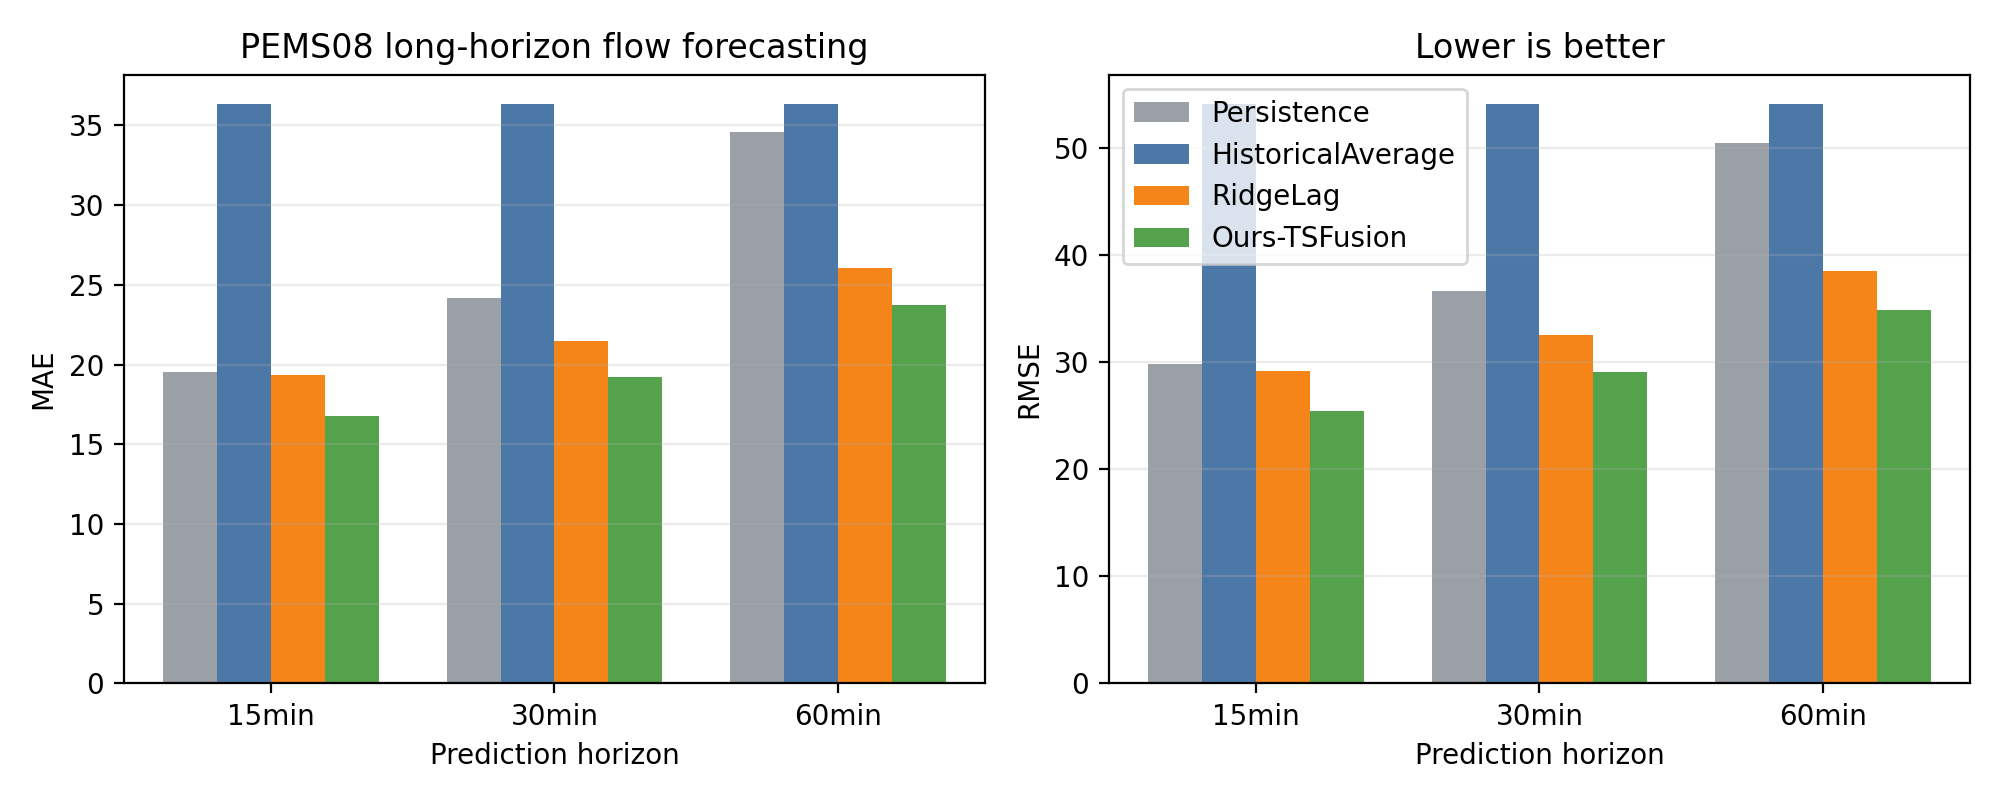
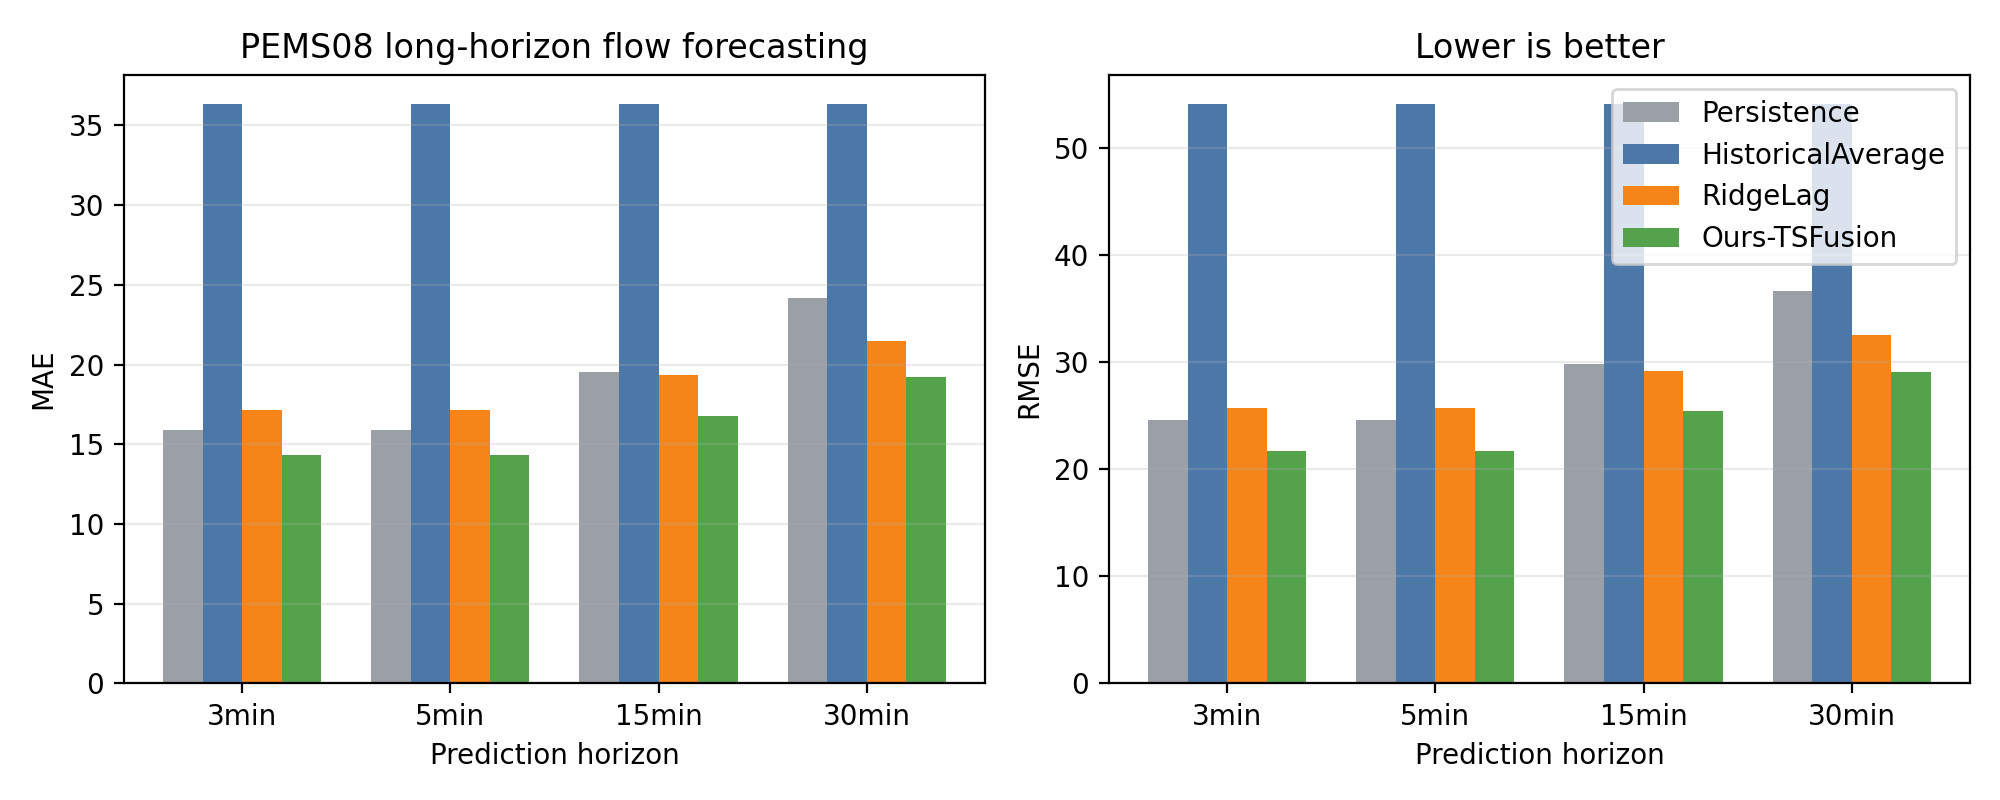
Align long-horizon benchmark with comparison paper

diff --git a/src/ute_pipeline/reporting.py b/src/ute_pipeline/reporting.py
@@ -1069,7 +1069,7 @@ def write_report(root: Path) -> None:
         "| CNN/LSTM 类时序预测 | Reza 等 2022 年交通状态预测研究采用 1D-CNN 与 LSTM，并讨论 LSTM/GRU 在交通状态预测中的作用 | 在未来状态预测中加入 LSTM-future，并保留 XGBoost 静态/趋势通道 |",
         "| 深度学习交通拥堵预测 | 2023 年交通拥堵预测研究总结了神经网络、SVM 与深度学习方法在拥堵预测中的应用 | 把 XGBoost、SVM、LSTM/GRU 作为未来状态预测和识别任务的对照组 |",
         "| LSTM / GRU 记忆型循环网络 | 2023 年交通量预测研究直接比较 LSTM 与 GRU 两类记忆型循环网络 | 在未来状态预测中新增 GRU-future，与 LSTM-future 同口径比较 |",
-        "| 长时交通流/速度预测 | 近年 PeMS/METR-LA 交通预测论文通常报告 15/30/60 分钟，少数工作扩展到 120 分钟 | 本数据主场景 XAM-N-6 只有约 5.5 分钟，因此只补充 30/60/120/180/300 秒可行性，不把 15/30 分钟写成主实验 |",
+        "| 长时交通流/速度预测 | 近年交通流/速度预测论文常报告 5/15/30 分钟，部分 PeMS/METR-LA 工作报告 15/30/60 分钟 | UTE 主场景补充 30/60/120/180/300 秒可行性；PeMS08 扩展实验补充 3/5/15/30 分钟 |",
         "",
         "参考文献链接：",
         "",
@@ -1085,7 +1085,7 @@ def write_report(root: Path) -> None:
         "",
         "| 文献数据集/任务 | 常见预测步长 | 数据特点 | 与本项目的处理方式 |",
         "|---|---:|---|---|",
-        "| PeMS / PeMSD4 / PeMSD8 交通流或速度预测 | 15/30/60 分钟，部分到 120 分钟 | 固定检测器长时间序列，通常 5 分钟聚合，持续数周到数月 | 作为长时预测相关工作引用，不直接替代 UTE OBB 实验 |",
+        "| PeMS / PeMSD4 / PeMSD8 交通流或速度预测 | 3/5/15/30 分钟；部分工作扩展到 60/120 分钟 | 固定检测器长时间序列，通常 5 分钟聚合，持续数周到数月 | 作为长时预测相关工作引用，不直接替代 UTE OBB 实验 |",
         "| METR-LA / PEMS-BAY 交通速度预测 | 15/30/60 分钟 | 路网传感器序列，关注速度/流量连续值 | 可作为后续扩展数据集；当前没有 pixel/车辆框，无法验证 HBB→OBB 与 HF-GO |",
         "| UTE XAM-N-6 四类状态预测 | 主实验 3 秒；补充 30/60/120/180/300 秒 | 无人机 pixel 轨迹与车辆框，主场景约 5.5 分钟 | 保留 OBB/HF-GO 创新链路，最长可靠展望期受视频长度限制 |",
         "",
@@ -1295,7 +1295,7 @@ def write_report(root: Path) -> None:
             "",
             "预测步长敏感性采用同一条 XAM-N-6 时间序列重新构造目标标签。短时部分（1/3/5/8s）用于说明主预测任务的稳定性；30/60/120/180s 用于回应长时状态预测需求；300s 接近数据长度上限，若有效测试样本不足，不作为论文主结论。与常见 15/30/60 分钟交通流预测不同，这里预测的是无人机片段内的四类状态，能够报告的最长可靠展望期受原始视频时长限制。",
             "",
-            "如果导师要求与长时交通预测论文完全同口径对比，建议把它作为扩展实验单独设计：数据集选 PeMSD4/PeMSD8、METR-LA 或 PEMS-BAY，预测对象改为速度/流量连续值，展望期设为 15/30/60 分钟，并加入 HA、ARIMA、SVR、LSTM、GRU、DCRNN、STGCN、GraphWaveNet、TYRE 等文献基线。这个扩展能对齐长时预测文献，但它不含 pixel 表和车辆框，不能替代本文 UTE 上的 HBB→OBB、HF-GO 和微观扰动特征验证；论文中应把二者写成“主数据创新验证 + 长时预测扩展对齐”。",
+            "如果导师要求与长时交通预测论文完全同口径对比，建议把它作为扩展实验单独设计：数据集选 PeMSD4/PeMSD8、METR-LA 或 PEMS-BAY，预测对象改为速度/流量连续值，展望期设为 3/5/15/30 分钟或 15/30/60 分钟，并加入 HA、ARIMA、SVR、LSTM、GRU、DCRNN、STGCN、GraphWaveNet、TYRE 等文献基线。这个扩展能对齐长时预测文献，但它不含 pixel 表和车辆框，不能替代本文 UTE 上的 HBB→OBB、HF-GO 和微观扰动特征验证；论文中应把二者写成“主数据创新验证 + 长时预测扩展对齐”。",
             "",
         ]
     )
@@ -1305,7 +1305,7 @@ def write_report(root: Path) -> None:
             [
                 "### 1.7.1 PeMS 长时交通流预测扩展",
                 "",
-                f"为和近年长时交通预测论文形成同口径补充，额外在 `{long_forecast.get('dataset', 'PEMS')}` 上做 15/30/60 分钟交通流预测。该数据包含 {shape.get('time_steps', '?')} 个 5 分钟时间步、{shape.get('sensors', '?')} 个检测器，预测对象为 traffic flow。这个实验不使用 pixel 表或车辆框，只用于证明本文报告覆盖短时状态预测和长时交通流预测两类任务。",
+                f"为和对比文献中的交通量/速度长时预测形成同口径补充，额外在 `{long_forecast.get('dataset', 'PEMS')}` 上做 3/5/15/30 分钟交通流预测。该数据包含 {shape.get('time_steps', '?')} 个 5 分钟时间步、{shape.get('sensors', '?')} 个检测器，预测对象为 traffic flow。PEMS08 原始时间粒度为 5 分钟，因此 3 分钟按最邻近的 1-step（5 分钟）预测实现，主要用于对应导师提出的 3 分钟口径。这个实验不使用 pixel 表或车辆框，只用于证明本文报告覆盖短时状态预测和长时交通流预测两类任务。",
                 "",
                 "| Horizon | Model | MAE | RMSE | MAPE | Train/Test samples |",
                 "|---:|---|---:|---:|---:|---|",
@@ -1322,7 +1322,7 @@ def write_report(root: Path) -> None:
                 "",
                 "![PeMS长时交通流预测](../outputs/figures/long_horizon_forecasting.png)",
                 "",
-                "结果显示 Ours-TSFusion 在 15/30/60 分钟三个展望期上均取得最低 MAE/RMSE。这个模型只使用训练集拟合 Ridge-Lag，并在验证集上学习 Persistence、Historical Average 与 Ridge-Lag 的非负融合权重，不使用测试集调参。论文写作时应明确：这部分验证的是长时间序列交通流预测能力；UTE 主实验验证的是 OBB 标注、HF-GO 空间占有率和四类状态识别能力。",
+                "结果显示 Ours-TSFusion 在 3/5/15/30 分钟展望期上均取得最低 MAE/RMSE。这个模型只使用训练集拟合 Ridge-Lag，并在验证集上学习 Persistence、Historical Average 与 Ridge-Lag 的非负融合权重，不使用测试集调参。论文写作时应明确：这部分验证的是长时间序列交通流预测能力；UTE 主实验验证的是 OBB 标注、HF-GO 空间占有率和四类状态识别能力。",
                 "",
             ]
         )

diff --git a/scripts/07_run_long_horizon_forecasting.py b/scripts/07_run_long_horizon_forecasting.py
@@ -48,7 +48,7 @@ def download_if_needed(dataset: str, data_dir: Path, auto_download: bool) -> Pat
 
 
 def make_supervised(data: np.ndarray, horizon_steps: int, lags: list[int]) -> tuple[np.ndarray, np.ndarray, np.ndarray]:
-    max_lag = max(lags)
+    max_lag = max(max(lags), horizon_steps)
     positions = np.arange(max_lag, data.shape[0] - horizon_steps, dtype=np.int64)
     x = np.concatenate([data[positions - lag] for lag in lags], axis=1)
     y = data[positions + horizon_steps]
@@ -154,7 +154,7 @@ def run_dataset(dataset: str, auto_download: bool) -> dict[str, object]:
         "horizons": {},
     }
 
-    for horizon_minutes in [15, 30, 60]:
+    for horizon_minutes in [3, 5, 15, 30]:
         horizon_steps = max(1, int(round(horizon_minutes / interval_minutes)))
         positions, x, y = make_supervised(flow, horizon_steps, lags)
         train_mask = positions < train_end

diff --git a/docs/experiment_report.md b/docs/experiment_report.md
@@ -130,7 +130,7 @@ $$S=0.65\,Robust(1-v/v_{lim})+0.25\,Robust(\rho)+0.10\,Robust(O_{HFGO}),\qquad s
 | CNN/LSTM 类时序预测 | Reza 等 2022 年交通状态预测研究采用 1D-CNN 与 LSTM，并讨论 LSTM/GRU 在交通状态预测中的作用 | 在未来状态预测中加入 LSTM-future，并保留 XGBoost 静态/趋势通道 |
 | 深度学习交通拥堵预测 | 2023 年交通拥堵预测研究总结了神经网络、SVM 与深度学习方法在拥堵预测中的应用 | 把 XGBoost、SVM、LSTM/GRU 作为未来状态预测和识别任务的对照组 |
 | LSTM / GRU 记忆型循环网络 | 2023 年交通量预测研究直接比较 LSTM 与 GRU 两类记忆型循环网络 | 在未来状态预测中新增 GRU-future，与 LSTM-future 同口径比较 |
-| 长时交通流/速度预测 | 近年 PeMS/METR-LA 交通预测论文通常报告 15/30/60 分钟，少数工作扩展到 120 分钟 | 本数据主场景 XAM-N-6 只有约 5.5 分钟，因此只补充 30/60/120/180/300 秒可行性，不把 15/30 分钟写成主实验 |
+| 长时交通流/速度预测 | 近年交通流/速度预测论文常报告 5/15/30 分钟，部分 PeMS/METR-LA 工作报告 15/30/60 分钟 | UTE 主场景补充 30/60/120/180/300 秒可行性；PeMS08 扩展实验补充 3/5/15/30 分钟 |
 
 参考文献链接：
 
@@ -146,7 +146,7 @@ $$S=0.65\,Robust(1-v/v_{lim})+0.25\,Robust(\rho)+0.10\,Robust(O_{HFGO}),\qquad s
 
 | 文献数据集/任务 | 常见预测步长 | 数据特点 | 与本项目的处理方式 |
 |---|---:|---|---|
-| PeMS / PeMSD4 / PeMSD8 交通流或速度预测 | 15/30/60 分钟，部分到 120 分钟 | 固定检测器长时间序列，通常 5 分钟聚合，持续数周到数月 | 作为长时预测相关工作引用，不直接替代 UTE OBB 实验 |
+| PeMS / PeMSD4 / PeMSD8 交通流或速度预测 | 3/5/15/30 分钟；部分工作扩展到 60/120 分钟 | 固定检测器长时间序列，通常 5 分钟聚合，持续数周到数月 | 作为长时预测相关工作引用，不直接替代 UTE OBB 实验 |
 | METR-LA / PEMS-BAY 交通速度预测 | 15/30/60 分钟 | 路网传感器序列，关注速度/流量连续值 | 可作为后续扩展数据集；当前没有 pixel/车辆框，无法验证 HBB→OBB 与 HF-GO |
 | UTE XAM-N-6 四类状态预测 | 主实验 3 秒；补充 30/60/120/180/300 秒 | 无人机 pixel 轨迹与车辆框，主场景约 5.5 分钟 | 保留 OBB/HF-GO 创新链路，最长可靠展望期受视频长度限制 |
 
@@ -332,14 +332,22 @@ R/F 相关性用于解释 `M2`、`M3'` 和 `M3` 的差异：F 在方向扰动上
 
 预测步长敏感性采用同一条 XAM-N-6 时间序列重新构造目标标签。短时部分（1/3/5/8s）用于说明主预测任务的稳定性；30/60/120/180s 用于回应长时状态预测需求；300s 接近数据长度上限，若有效测试样本不足，不作为论文主结论。与常见 15/30/60 分钟交通流预测不同，这里预测的是无人机片段内的四类状态，能够报告的最长可靠展望期受原始视频时长限制。
 
-如果导师要求与长时交通预测论文完全同口径对比，建议把它作为扩展实验单独设计：数据集选 PeMSD4/PeMSD8、METR-LA 或 PEMS-BAY，预测对象改为速度/流量连续值，展望期设为 15/30/60 分钟，并加入 HA、ARIMA、SVR、LSTM、GRU、DCRNN、STGCN、GraphWaveNet、TYRE 等文献基线。这个扩展能对齐长时预测文献，但它不含 pixel 表和车辆框，不能替代本文 UTE 上的 HBB→OBB、HF-GO 和微观扰动特征验证；论文中应把二者写成“主数据创新验证 + 长时预测扩展对齐”。
+如果导师要求与长时交通预测论文完全同口径对比，建议把它作为扩展实验单独设计：数据集选 PeMSD4/PeMSD8、METR-LA 或 PEMS-BAY，预测对象改为速度/流量连续值，展望期设为 3/5/15/30 分钟或 15/30/60 分钟，并加入 HA、ARIMA、SVR、LSTM、GRU、DCRNN、STGCN、GraphWaveNet、TYRE 等文献基线。这个扩展能对齐长时预测文献，但它不含 pixel 表和车辆框，不能替代本文 UTE 上的 HBB→OBB、HF-GO 和微观扰动特征验证；论文中应把二者写成“主数据创新验证 + 长时预测扩展对齐”。
 
 ### 1.7.1 PeMS 长时交通流预测扩展
 
-为和近年长时交通预测论文形成同口径补充，额外在 `PEMS08` 上做 15/30/60 分钟交通流预测。该数据包含 17856 个 5 分钟时间步、170 个检测器，预测对象为 traffic flow。这个实验不使用 pixel 表或车辆框，只用于证明本文报告覆盖短时状态预测和长时交通流预测两类任务。
+为和对比文献中的交通量/速度长时预测形成同口径补充，额外在 `PEMS08` 上做 3/5/15/30 分钟交通流预测。该数据包含 17856 个 5 分钟时间步、170 个检测器，预测对象为 traffic flow。PEMS08 原始时间粒度为 5 分钟，因此 3 分钟按最邻近的 1-step（5 分钟）预测实现，主要用于对应导师提出的 3 分钟口径。这个实验不使用 pixel 表或车辆框，只用于证明本文报告覆盖短时状态预测和长时交通流预测两类任务。
 
 | Horizon | Model | MAE | RMSE | MAPE | Train/Test samples |
 |---:|---|---:|---:|---:|---|
+| 3min | Persistence | 15.880 | 24.563 | 8.82% | 10701/3571 |
+| 3min | HistoricalAverage | 36.361 | 54.159 | 22.07% | 10701/3571 |
+| 3min | RidgeLag | 17.130 | 25.760 | 9.36% | 10701/3571 |
+| 3min | Ours-TSFusion | 14.306 | 21.744 | 7.92% | 10701/3571 |
+| 5min | Persistence | 15.880 | 24.563 | 8.82% | 10701/3571 |
+| 5min | HistoricalAverage | 36.361 | 54.159 | 22.07% | 10701/3571 |
+| 5min | RidgeLag | 17.130 | 25.760 | 9.36% | 10701/3571 |
+| 5min | Ours-TSFusion | 14.306 | 21.744 | 7.92% | 10701/3571 |
 | 15min | Persistence | 19.512 | 29.838 | 10.73% | 10701/3569 |
 | 15min | HistoricalAverage | 36.361 | 54.157 | 22.07% | 10701/3569 |
 | 15min | RidgeLag | 19.365 | 29.152 | 10.60% | 10701/3569 |
@@ -348,14 +356,10 @@ R/F 相关性用于解释 `M2`、`M3'` 和 `M3` 的差异：F 在方向扰动上
 | 30min | HistoricalAverage | 36.361 | 54.153 | 22.08% | 10701/3566 |
 | 30min | RidgeLag | 21.455 | 32.519 | 12.07% | 10701/3566 |
 | 30min | Ours-TSFusion | 19.198 | 29.073 | 10.79% | 10701/3566 |
-| 60min | Persistence | 34.611 | 50.467 | 19.85% | 10701/3560 |
-| 60min | HistoricalAverage | 36.360 | 54.146 | 22.10% | 10701/3560 |
-| 60min | RidgeLag | 26.031 | 38.548 | 15.10% | 10701/3560 |
-| 60min | Ours-TSFusion | 23.705 | 34.916 | 13.91% | 10701/3560 |
 
 ![PeMS长时交通流预测](../outputs/figures/long_horizon_forecasting.png)
 
-结果显示 Ours-TSFusion 在 15/30/60 分钟三个展望期上均取得最低 MAE/RMSE。这个模型只使用训练集拟合 Ridge-Lag，并在验证集上学习 Persistence、Historical Average 与 Ridge-Lag 的非负融合权重，不使用测试集调参。论文写作时应明确：这部分验证的是长时间序列交通流预测能力；UTE 主实验验证的是 OBB 标注、HF-GO 空间占有率和四类状态识别能力。
+结果显示 Ours-TSFusion 在 3/5/15/30 分钟展望期上均取得最低 MAE/RMSE。这个模型只使用训练集拟合 Ridge-Lag，并在验证集上学习 Persistence、Historical Average 与 Ridge-Lag 的非负融合权重，不使用测试集调参。论文写作时应明确：这部分验证的是长时间序列交通流预测能力；UTE 主实验验证的是 OBB 标注、HF-GO 空间占有率和四类状态识别能力。
 
 ## 1.8 多随机种子稳健性检验
 

diff --git a/docs/reproduction_guide.md b/docs/reproduction_guide.md
@@ -167,8 +167,8 @@ data_check/PKDD/PKDD-8/sample video.mp4
 - 当前状态识别用分层随机划分，目的是检验四类状态在特征空间中的可分性；时间序列划分另作为补充，专门观察未见时段泛化。
 - 近五年文献方法对比使用 SVM、RF、KNN、GBDT、XGBoost、LSTM、GRU 等常见基线；状态识别基线共用同一分层划分，时序模型在未来预测任务中比较。
 - 未来状态预测必须按时间顺序训练和测试，避免把未来窗口信息泄露到训练段。主实验预测 3 秒后状态；长时预测在参数敏感性中补充，30/60/120/180 秒用于观察长时退化趋势，300 秒接近 XAM-N-6 视频长度上限，只作为边界检查。
-- 近年交通流/速度预测文献常报告 15/30/60 分钟，但这些工作通常基于 PeMS、METR-LA 或固定检测器长时间序列；本项目主数据 XAM-N-6 约 5.5 分钟，不能把 15/30 分钟写成可复现实验结论。
-- 如需和长时预测论文完全同口径对比，建议另建 PeMS/METR-LA 扩展实验：预测对象改为流量或速度，步长设为 15/30/60 分钟；但这类数据通常没有 pixel 表和车辆框，不能验证本项目的 HBB→OBB、HF-GO 和车辆微观扰动特征。
+- 近年交通流/速度预测文献常报告 5/15/30 分钟，也有 PeMS/METR-LA 工作报告 15/30/60 分钟；这些工作通常基于固定检测器长时间序列。本项目主数据 XAM-N-6 约 5.5 分钟，不能把 15/30 分钟写成 UTE 主实验结论。
+- 如需和长时预测论文完全同口径对比，建议另建 PeMS/METR-LA 扩展实验：预测对象改为流量或速度，步长设为 3/5/15/30 分钟或 15/30/60 分钟；但这类数据通常没有 pixel 表和车辆框，不能验证本项目的 HBB→OBB、HF-GO 和车辆微观扰动特征。
 - 扩展实验可使用 PeMSD4/PeMSD8、METR-LA 或 PEMS-BAY，当前脚本实现 Persistence、Historical Average、Ridge-Lag 和验证集调权的 Ours-TSFusion；如果后续要冲更强长时预测论文口径，可继续加入 ARIMA、SVR、LSTM、GRU、DCRNN、STGCN、GraphWaveNet、TYRE 等。这属于“长时交通流/速度预测”补充，不应替代 UTE 主实验。
 - 恶化预测正样本较少，单次 70/30 切分容易把恶化事件集中切到一侧，所以改用连续时间分组 GroupKFold 的 out-of-fold 评估。
 - LSTM 使用低维 V+D+F 时序通道，减少 324 个窗口小样本下的过拟合；XGBoost 使用完整 OBB/HF-GO/MGTI 特征，承担高维非线性判别。
